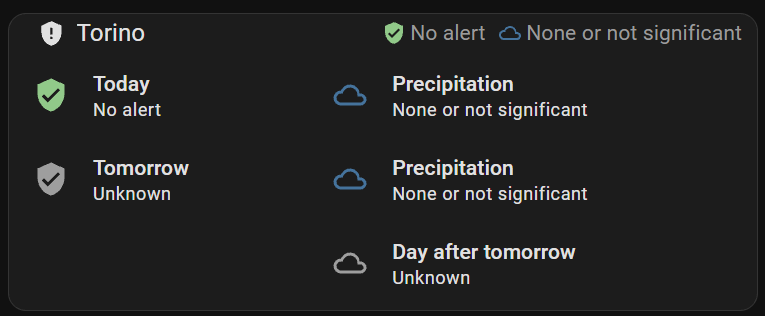
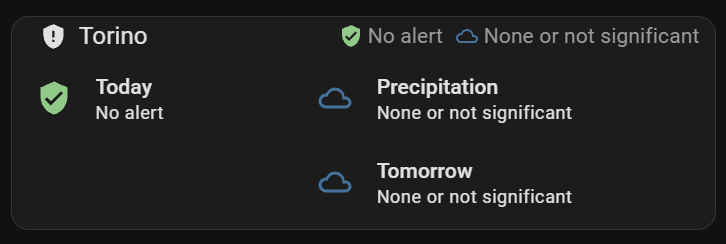
feat: Enhance dashboard visibility logic and update documentation for data handling

diff --git a/custom_components/dpc/frontend/dpc-dashboard.js b/custom_components/dpc/frontend/dpc-dashboard.js
@@ -45,7 +45,7 @@
  *   Load texts of an integration into the frontend, and return them with the others.
  *
  * @typedef {Record<string, any>} Card A card configuration.
- * @typedef {{ type: string, cards: Card[] }} Section A section of a sections view.
+ * @typedef {{ type: string, cards: Card[], visibility?: Card[] }} Section A section of a sections view.
  */
 
 /** The integration whose entities the dashboard shows. */
@@ -780,8 +780,35 @@ export function daySection(hass, place, day) {
 }
 
 /**
+ * Return a section shown while any of its entities has data, as its cards are.
+ *
+ * Without data, as the day after tomorrow from midnight until the next
+ * bulletin, every card of a section is hidden: so is the section, rather than
+ * its heading alone. Sections have visibility conditions since Home Assistant
+ * 2024.6.
+ *
+ * @param {Section} section
+ * @returns {Section}
+ */
+export function shownWithData(section) {
+  const entities = [
+    ...new Set(
+      section.cards.flatMap((card) => [
+        card.entity,
+        ...(card.entities ?? []).map((/** @type {Card} */ item) => item.entity),
+      ]),
+    ),
+  ].filter((entity) => entity !== undefined);
+  if (!entities.length) {
+    return section;
+  }
+  return { ...section, visibility: [{ condition: "or", conditions: entities.map(withData) }] };
+}
+
+/**
  * Return the view of a place: the sections of the place and of its days that
- * have more than their heading, as when the place shows no sensors.
+ * have more than their heading, as when the place shows no sensors, each shown
+ * while it has data.
  *
  * @param {Hass} hass
  * @param {Place} place
@@ -793,7 +820,9 @@ export function placeView(hass, place) {
     sections: [
       placeSection(hass, place),
       ...DAYS.filter((day) => place.days.has(day)).map((day) => daySection(hass, place, day)),
-    ].filter((section) => section.cards.length > 1),
+    ]
+      .filter((section) => section.cards.length > 1)
+      .map(shownWithData),
   };
 }
 

diff --git a/README.fr.md b/README.fr.md
@@ -120,7 +120,7 @@ Il a un onglet pour chaque lieu, avec les niveaux aux couleurs de la carte d'ale
 
 <img src="https://raw.githubusercontent.com/caiosweet/Home-Assistant-custom-components-DPC-Alert/main/assets/images/dashboard.png" alt="Le tableau de bord DPC Alert de Torino : le lieu, aujourd'hui et demain" width="100%">
 
-Le tableau de bord suit vos lieux : il change de lui-même quand vous en ajoutez un, cochez ou décochez un jour, et quand un bulletin apporte d'autres phénomènes. Ce qui n'a pas de données est masqué, comme l'alerte, les risques et les cartes de demain après minuit, jusqu'à ce que le DPC publie le bulletin suivant. Les bannières colorées des risques nécessitent Home Assistant 2026.9 ou plus récent ; avant, les risques sont affichés sous forme de tuiles.
+Le tableau de bord suit vos lieux : il change de lui-même quand vous en ajoutez un, cochez ou décochez un jour, et quand un bulletin apporte d'autres phénomènes. Ce qui n'a pas de données est masqué, comme l'alerte, les risques et les cartes de demain après minuit, jusqu'à ce que le DPC publie le bulletin suivant ; un jour sans aucune donnée est masqué en entier. Les bannières colorées des risques nécessitent Home Assistant 2026.9 ou plus récent ; avant, les risques sont affichés sous forme de tuiles.
 
 Pour montrer un lieu dans un autre tableau de bord, ajoutez une vue avec la stratégie du tableau de bord et l'identifiant de l'appareil du lieu, la fin de l'adresse de la page de son appareil :
 

diff --git a/README.de.md b/README.de.md
@@ -120,7 +120,7 @@ Es hat einen Tab für jeden Ort, mit den Stufen in den Farben der Warnkarte des 
 
 <img src="https://raw.githubusercontent.com/caiosweet/Home-Assistant-custom-components-DPC-Alert/main/assets/images/dashboard.png" alt="Das Dashboard DPC Alert von Torino: der Ort, heute und morgen" width="100%">
 
-Das Dashboard folgt deinen Orten: Es ändert sich von selbst, wenn du einen hinzufügst, einen Tag an- oder abwählst und wenn ein Bulletin andere Phänomene bringt. Was keine Daten hat, ist ausgeblendet, etwa die Warnung, die Risiken und die Karten von morgen nach Mitternacht, bis das DPC das nächste Bulletin veröffentlicht. Die farbigen Banner der Risiken erfordern Home Assistant 2026.9 oder neuer; davor werden die Risiken als Kacheln angezeigt.
+Das Dashboard folgt deinen Orten: Es ändert sich von selbst, wenn du einen hinzufügst, einen Tag an- oder abwählst und wenn ein Bulletin andere Phänomene bringt. Was keine Daten hat, ist ausgeblendet, etwa die Warnung, die Risiken und die Karten von morgen nach Mitternacht, bis das DPC das nächste Bulletin veröffentlicht; ein Tag ganz ohne Daten ist vollständig ausgeblendet. Die farbigen Banner der Risiken erfordern Home Assistant 2026.9 oder neuer; davor werden die Risiken als Kacheln angezeigt.
 
 Um einen Ort in einem anderen Dashboard anzuzeigen, füge eine Ansicht mit der Strategie des Dashboards und der ID des Geräts des Ortes hinzu, dem Ende der Adresse seiner Geräteseite:
 

diff --git a/README.es.md b/README.es.md
@@ -120,7 +120,7 @@ Tiene una pestaña por cada lugar, con los niveles en los colores del mapa de al
 
 <img src="https://raw.githubusercontent.com/caiosweet/Home-Assistant-custom-components-DPC-Alert/main/assets/images/dashboard.png" alt="El panel de control DPC Alert de Torino: el lugar, hoy y mañana" width="100%">
 
-El panel de control sigue a tus lugares: cambia por sí solo cuando añades uno, marcas o desmarcas un día, y cuando un boletín trae otros fenómenos. Lo que no tiene datos se oculta, como la alerta, los riesgos y los mapas de mañana después de medianoche, hasta que el DPC publica el siguiente boletín. Los avisos de color de los riesgos requieren Home Assistant 2026.9 o posterior; antes, los riesgos se muestran como mosaicos.
+El panel de control sigue a tus lugares: cambia por sí solo cuando añades uno, marcas o desmarcas un día, y cuando un boletín trae otros fenómenos. Lo que no tiene datos se oculta, como la alerta, los riesgos y los mapas de mañana después de medianoche, hasta que el DPC publica el siguiente boletín; un día sin ningún dato se oculta entero. Los avisos de color de los riesgos requieren Home Assistant 2026.9 o posterior; antes, los riesgos se muestran como mosaicos.
 
 Para mostrar un lugar en otro panel de control, añade una vista con la estrategia del panel y el ID del dispositivo del lugar, la parte final de la dirección de la página de su dispositivo:
 

diff --git a/README.it.md b/README.it.md
@@ -120,7 +120,7 @@ Ha una scheda per ogni luogo, con i livelli nei colori della mappa di allerta de
 
 <img src="https://raw.githubusercontent.com/caiosweet/Home-Assistant-custom-components-DPC-Alert/main/assets/images/dashboard.png" alt="La plancia DPC Alert di Torino: il luogo, oggi e domani" width="100%">
 
-La plancia segue i tuoi luoghi: cambia da sola quando ne aggiungi uno, scegli o togli un giorno, e quando un bollettino porta altri fenomeni. Ciò che non ha dati resta nascosto, come l'allerta, i rischi e le mappe di domani dopo mezzanotte, finché il DPC non pubblica il bollettino successivo. Gli avvisi colorati dei rischi richiedono Home Assistant 2026.9 o successivo; prima, i rischi sono mostrati come riquadri.
+La plancia segue i tuoi luoghi: cambia da sola quando ne aggiungi uno, scegli o togli un giorno, e quando un bollettino porta altri fenomeni. Ciò che non ha dati resta nascosto, come l'allerta, i rischi e le mappe di domani dopo mezzanotte, finché il DPC non pubblica il bollettino successivo; un giorno senza alcun dato resta nascosto per intero. Gli avvisi colorati dei rischi richiedono Home Assistant 2026.9 o successivo; prima, i rischi sono mostrati come riquadri.
 
 Per mostrare un luogo in un'altra plancia, aggiungi una vista con la strategia della plancia e l'ID del dispositivo del luogo, la parte finale dell'indirizzo della pagina del suo dispositivo:
 

diff --git a/README.md b/README.md
@@ -120,7 +120,7 @@ It has a tab for each place, with the levels in the colors of the DPC alert map,
 
 <img src="https://raw.githubusercontent.com/caiosweet/Home-Assistant-custom-components-DPC-Alert/main/assets/images/dashboard.png" alt="The DPC Alert dashboard of Torino: the place, today and tomorrow" width="100%">
 
-The dashboard follows your places: it changes by itself when you add one, check or uncheck a day, and when a bulletin brings other phenomena. What has no data is hidden, such as the alert, the risks and the maps of tomorrow after midnight, until DPC publishes the next bulletin. The colored banners of the risks need Home Assistant 2026.9 or newer; before, the risks are shown as tiles.
+The dashboard follows your places: it changes by itself when you add one, check or uncheck a day, and when a bulletin brings other phenomena. What has no data is hidden, such as the alert, the risks and the maps of tomorrow after midnight, until DPC publishes the next bulletin; a day with no data at all is hidden whole. The colored banners of the risks need Home Assistant 2026.9 or newer; before, the risks are shown as tiles.
 
 To show a place in another dashboard, add a view with the strategy of the dashboard and the ID of the device of the place, the end of the address of its device page:
 

diff --git a/CHANGELOG.md b/CHANGELOG.md
@@ -66,7 +66,9 @@ that followed them.
 - The DPC Alert dashboard and cards leave out what has no data, rather than
   showing it as unknown: the number of phenomena, the zones and the
   bulletins, and, after midnight until the next bulletin, the alert and the
-  risks of tomorrow and the precipitation of the day after tomorrow.
+  risks of tomorrow and the precipitation of the day after tomorrow. A section
+  of the dashboard with no data at all is hidden whole, rather than its
+  heading alone.
 - The setup and the options accepted a place that shows nothing, such as no
   day without the sensors, or only the day after tomorrow with only its risks
   or maps: they ask for something the place shows.
